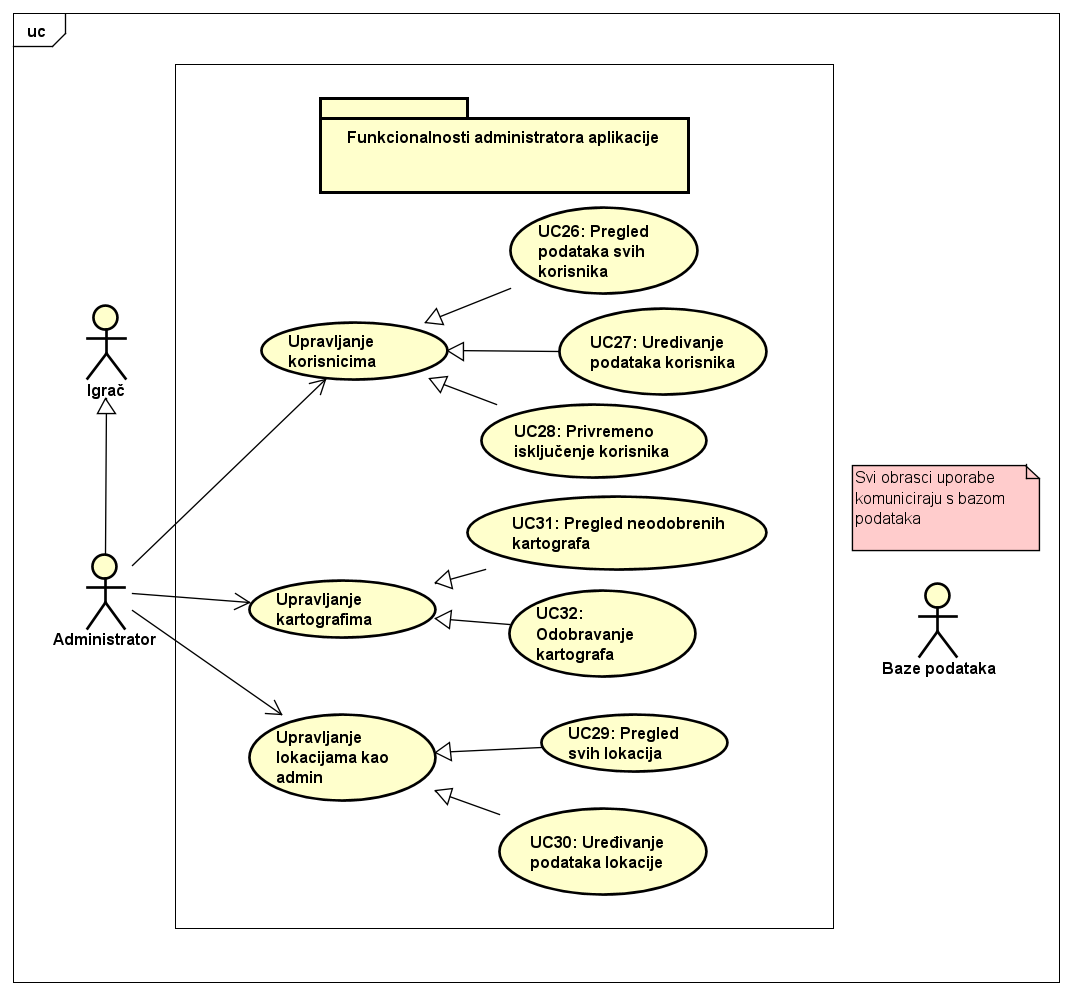
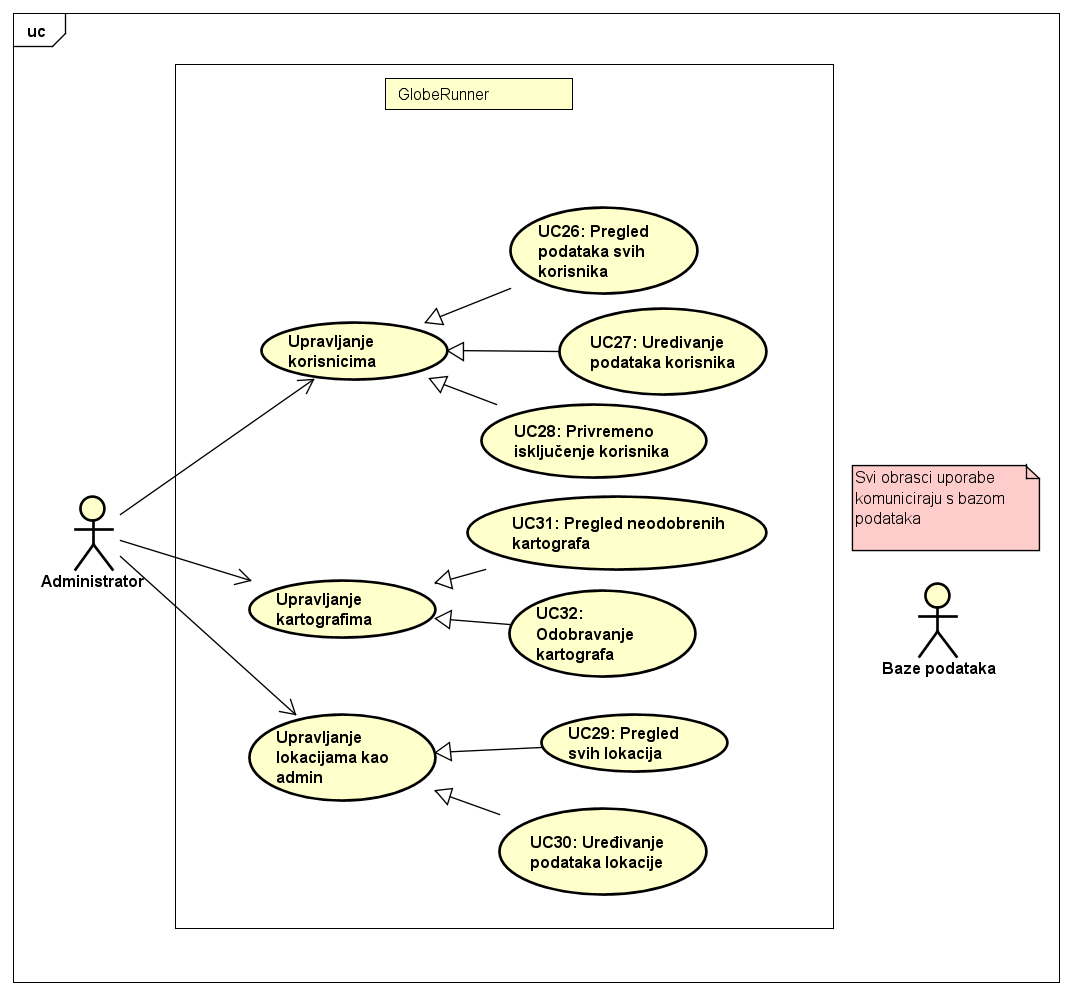
Izmjena use case dijagrama u dokumentaciji

diff --git a/Dokumentacija/Opis_projektnog_zadatka.tex b/Dokumentacija/Opis_projektnog_zadatka.tex
@@ -3,7 +3,13 @@
 		
 		Igra \textit{GlobeRunner} zamišljena je kao način da se ljude potakne na istraživanje lokalnih povijesnih i prirodnih znamenitosti. Pri posjetima znamenitostima igrači će se kretati na otvorenom, što je svakako bolja alternativa provođenju vremena u zatvorenom prostoru. Kroz same bitke, odnosno odabir kartica za njih, igrači će bolje upoznati bitne atribute lokalnih znamenitosti kraj kojih često prolaze bez razmišljanja jer će im upravo pažljiv odabir znamenitosti donositi pobjede u bitkama protiv drugih igrača.\par
 		
-		Platforme sa sličnom vizijom već postoje, jedna od njih je \textit{Geocaching}. Radi se o igri koja se zasniva na skrivenim spremnicima (eng. \textit{geocaches}) koji sadrže mali dnevnik u koji se posjetitelji zapisuju kada ga pronađu. Igrači u samoj aplikaciji biraju koji spremnik žele pronaći i zatim se upute u potragu. Prilikom pronalaska u spremniku mogu ostaviti i neku sitnicu, ili pak uzeti nešto iz njega, a nakon pronalaska svoje dojmove mogu objaviti na platformi. Razlika u odnosu na igru \textit{GlobeRunner} jest u tome da postoje fizički artefakti koji se skrivaju na proizvoljna mjesta i zatim pronalaze, dok je cilj ove igre sam posjet lokaciji koja treba biti na neki način značajna, povijesno ili pak geografski. Po pitanju nepostojanja fizičkih artefakata, \textit{GlobeRunner} je sličniji igri \textit{Pokémon GO} u kojoj se uz mjesta lokalnih znamenitosti vežu zamišljena bića iz animirane japanske franšize \textit{Pokémon}, zbog čega se pak razlikuje po značenju samih virtualnih artefakata. Sam tijek igre, kroz bitke u kojima se koriste kartice, podsjeća na kolekcionarsku igru \textit{Yu-Gi-Oh!}, no cijela premisa igre u potpunosti je drugačija.
+		Platforme sa sličnom vizijom već postoje, jedna od njih je \textit{Geocaching}, Slika \ref{fig:geocaching}. Radi se o igri koja se zasniva na skrivenim spremnicima (eng. \textit{geocaches}) koji sadrže mali dnevnik u koji se posjetitelji zapisuju kada ga pronađu. Igrači u samoj aplikaciji biraju koji spremnik žele pronaći i zatim se upute u potragu. Prilikom pronalaska u spremniku mogu ostaviti i neku sitnicu, ili pak uzeti nešto iz njega, a nakon pronalaska svoje dojmove mogu objaviti na platformi. Razlika u odnosu na igru \textit{GlobeRunner} jest u tome da postoje fizički artefakti koji se skrivaju na proizvoljna mjesta i zatim pronalaze, dok je cilj ove igre sam posjet lokaciji koja treba biti na neki način značajna, povijesno ili pak geografski. Po pitanju nepostojanja fizičkih artefakata, \textit{GlobeRunner} je sličniji igri \textit{Pokémon GO} u kojoj se uz mjesta lokalnih znamenitosti vežu zamišljena bića iz animirane japanske franšize \textit{Pokémon}, zbog čega se pak razlikuje po značenju samih virtualnih artefakata. Sam tijek igre, kroz bitke u kojima se koriste kartice, podsjeća na kolekcionarsku igru \textit{Yu-Gi-Oh!}, no cijela premisa igre u potpunosti je drugačija.
+		
+		\begin{figure}[H]
+			\includegraphics[width=\textwidth]{slike/Uvod/Geocaching.png} 
+			\caption{Web sjedište platforme \textit{Geocaching}}
+			\label{fig:geocaching}
+		\end{figure}
 		
 		Upravo bi iz navedenih razloga \textit{GlobeRunner} mogao privući igrače koji žele na zabavan način upoznati područja u kojima borave i kojima se kreću, kojeg god uzrasta bili, dok god paze na svoju sigurnost, posebno pri posjeti izazovnijim lokacijama poput planinskih vrhova. Ova aplikacija otvara svoja vrata i onim najznatiželjnijima koji žele poboljšati igru, odnosno predložiti nove lokacije i tako istaknuti njihov značaj.
 		
@@ -28,7 +34,7 @@
 		
 		Nakon ispunjavanja obrasca za registraciju, novi igrač treba potvrditi svoju e-mail adresu klikom na dostavljenu poveznicu. Tako potvrđen igrač može krenuti s upotrebom web aplikacije, dok registraciju kartografa naknadno mora odobriti administrator.
 		
-		\underbar{Igrač} nakon registracije započinje igru s predefiniranim početnim brojem bodova u ELO sustavu (npr. u šahu je 1500). Nakon prijave igrač vidi početnu stranicu koja prikazuje kartu na kojoj su označene lokacije s karticama koje još nije prikupio. Kada se igrač nađe u blizini neskupljenih kartica, ispod karte se pojavi popis kartica u neposrednoj blizini, njih onda može pokušati pokupiti pritiskom na gumb "Pokupi" koji će to dopustiti samo ako je igrač jako blizu kartici. Na početnoj (i svim ostalim) stranici igrač vidi i izbornik koji mu omogućuje navigaciju kroz web aplikaciju. Sadržaj izbornika je sljedeći:
+		\underbar{Igrač} nakon registracije započinje igru s predefiniranim početnim brojem bodova u ELO sustavu (npr. u šahu je 1500). Nakon prijave igrač vidi početnu stranicu koja prikazuje kartu na kojoj su označene lokacije s karticama koje još nije prikupio. Kada se igrač nađe u blizini neskupljenih kartica, ispod karte se pojavi popis kartica u neposrednoj blizini, njih onda može pokušati pokupiti pritiskom na gumb "Pokupi" koji će to dopustiti samo ako je igrač jako blizu kartici. Na početnoj stranici, kao i na ostalima, igrač vidi i izbornik koji mu omogućuje navigaciju kroz web aplikaciju. Sadržaj izbornika je sljedeći:
 		
 		\begin{packed_item}
 		    \item Vlastiti profil
@@ -36,7 +42,7 @@
 		    \item Igrači u blizini
 		\end{packed_item}
 		
-		Kroz izbornik igrač može pristupiti vlastitom profilu na kojem vidi statistiku svojih borbi i sve karte koje je skupio. U izborniku se također nalazi i poveznica na stranicu "Globalna statistika" koja prikazuje ljestvicu svih igrača sortiranu po ELO bodovnom sustavu, a uz to prikazuje i statistiku svih odigranih bitki i skupljenih kartica u igri. Do stranice koja prikazuje popis drugih igrača u blizini igrač također dolazi preko spomenutog izbornika. Na tom popisu igrač odabire koga će izazvati, a nakon što drugi igrač prihvati izazov, svaki odabire karte s kojima će ići u bitku. Iznad spomenutog popisa igraču se pojave zahtjevi za bitke kada ih drugi igrači izazovu, a on ih onda može prihvatiti ili odbiti. Nakon svake bitke igračima se ažurira njihov broj bodova shodno ELO sustavu. Svakog dana u ponoć (CET) izdvaja se prvih 10\% igrača s ljestvice i njima se dodjeljuje status naprednog igrača.
+		Kroz izbornik igrač može pristupiti vlastitom profilu na kojem vidi statistiku svojih borbi i sve karte koje je skupio. U izborniku se također nalazi i poveznica na stranicu "Globalna statistika" koja prikazuje ljestvicu svih igrača sortiranu po ELO bodovnom sustavu, a uz to prikazuje i statistiku svih odigranih bitki i skupljenih kartica u igri. Do stranice koja prikazuje popis drugih igrača u blizini igrač također dolazi preko spomenutog izbornika. Na tom popisu igrač odabire koga će izazvati, a nakon što drugi igrač prihvati izazov, svaki odabire karte s kojima će ići u bitku. Iznad spomenutog popisa igraču se pojave zahtjevi za bitke kada ih drugi igrači izazovu, a on ih onda može prihvatiti ili odbiti. Bitka se provodi usporedbom površina koje razapinju tri kartice koje pojedini igrač odabere, uz napomenu da se površina skalira prosjekom jačina tih triju kartica. Jačina kartice smanjuje se nakon svakog korištenja i to smanjenje vrijedi samo za korisnika koji ju koristi. Nakon svake bitke igračima se ažurira njihov broj bodova shodno ELO sustavu. Ako igrač pređe određeni prag bodova, dodjeljuje mu se status naprednog igrača.
 		
 		\underbar{Napredni igrač}, uz sve spomenute funkcionalnosti običnog igrača, u svom izborniku ima i opciju "Dodaj lokaciju" koja ga vodi na stranicu za predlaganje nove lokacije, odnosno kartice. Kako bi dodao neku lokaciju, napredni igrač mora biti u njezinoj blizini. U obrazac za dodavanje lokacije mora unijeti sve podatke koje kartica treba imati - naziv, opis i fotografiju. Nakon što predloži novu lokaciju, ona mu postaje vidljiva na njegovoj karti za dodavanje, ali uz naznaku da još nije odobrena.
 		
@@ -47,9 +53,9 @@
 		    \item Provjera na terenu
 		\end{packed_item}
 		
-		Na stranici vlastitog profila kartograf ima uvid u kartice koje je već odobrio i rute koje je već obišao kako bi na terenu potvrdio kartice. Stranica za provjeru na terenu daje kartografu priliku da iz liste kartica koje treba provjeriti na terenu odabere one koje će on provjeriti. Tako dopunjava svoju listu kartica za obići. Kada označi željeni broj lokacija za provjeru, kartograf klikom na gumb "generiraj rutu" zadaje sustavu problem trgovačkog putnika koji sustav rješava koristeći vanjski servis OSRM te kartografu prikazuje rutu koju treba obići da bi na terenu provjerio sve kartice koje je odabrao.
+		Na stranici vlastitog profila kartograf ima uvid u kartice koje je već odobrio. Stranica za provjeru na terenu daje kartografu priliku da iz liste kartica koje treba provjeriti na terenu odabere one koje će on provjeriti. Tako dopunjava svoju listu kartica za obići. Kada označi željeni broj lokacija za provjeru, kartograf klikom na gumb "generiraj rutu" zadaje sustavu problem trgovačkog putnika koji sustav rješava koristeći vanjski servis OSRM te kartografu prikazuje rutu koju treba obići da bi na terenu provjerio sve kartice koje je odabrao.
 		
-		\underbar{Administrator} može igrati igru kao i obični igrači, predlagati kartice poput naprednih, ali uz to ima na izborniku i stavku "Administracija" koja mu daje pristup sljedećim stranicama:
+		\underbar{Administrator} ima ulogu nadgledanja korisnika, lokacija i kartografa, a u tu svrhu u svom izborniku ima pristup sljedećim stranicama:
 		
 		\begin{packed_item}
 		    \item Svi korisnici
@@ -59,20 +65,13 @@
 		
 		Na stranici "Svi korisnici" administratoru se prikazuje popis svih korisnika. Za svakog korisnika nudi mu se opcija uređivanja osobnih podataka i opcija isključenja iz igre koje ga vode na pripadne stranice s tim funkcionalnostima. Na stranici "Sve kartice" administratoru je prikazana karta sa svim karticama u igri, a klikom na bilo koju od njih administrator dobiva opciju uređivanja kartice izmjenom bilo kojeg atributa same kartice. "Odobravanje kartografa" je stranica putem koje administrator dobiva uvid u registracije kartografa koje još nisu odobrene. Za svaku od njih nudi mu se opcija da ju odobri.
 		
+		Uz očekivane funkcionalnosti, identificirali smo i nadogradnje sustava koje bi poboljšale sigurnost, performanse i iskustvo korisnika, a čiji razvoj nije dio ovog projekta. Neke od njih su:
 		
-		\section{UPUTE - OBRISATI KASNIJE}
-		Na osnovi projektnog zadatka detaljno opisati korisničke zahtjeve. Što jasnije opisati cilj projektnog zadatka, razraditi problematiku zadatka, dodati nove aspekte problema i potencijalnih rješenja. Očekuje se minimalno 3, a poželjno 4-5 stranica opisa.	Teme koje treba dodatno razraditi u ovom poglavlju su:
 		\begin{packed_item}
-			\item \textit{potencijalna korist ovog projekta}
-			\item \textit{postojeća slična rješenja (istražiti i ukratko opisati razlike u odnosu na zadani zadatak). Dodajte slike koja predočavaju slična rješenja.}
-			\item \textit{skup korisnika koji bi mogao biti zainteresiran za ostvareno rješenje.}
-			\item \textit{mogućnost prilagodbe rješenja }
-			\item \textit{opseg projektnog zadatka}
-			\item \textit{moguće nadogradnje projektnog zadatka}
+		    \item Složeniji proces borbe
+		    \item Funkcija obnavljanja snage kartice ponovnim skupljanjem
+		    \item ...
 		\end{packed_item}
-		
-		\textit{Za pomoć pogledati reference navedene u poglavlju „Popis literature“, a po potrebi konzultirati sadržaj na internetu koji nudi dobre smjernice u tom pogledu.}
-		\eject
 		
 		\section{Primjeri u \LaTeX u}
 		
@@ -155,6 +154,7 @@
 		
 		%unos slike
 		\begin{figure}[H]
+		    \centering
 			\includegraphics[scale=0.4]{slike/aktivnost.PNG} %veličina slike u odnosu na originalnu datoteku i pozicija slike
 			\centering
 			\caption{Primjer slike s potpisom}

diff --git a/Dokumentacija/Specifikacija_programske_potpore.tex b/Dokumentacija/Specifikacija_programske_potpore.tex
@@ -113,11 +113,13 @@
 		            
 		        \end{packed_enum}
 		        
-	        \item \underbar{Baza podataka (inicijator) može:}
+	        \item \underbar{Baza podataka (sudionik):}
 		    
 		        \begin{packed_enum}
 		            
-		            \item 
+		            \item pohranjuje sve podatke o korisnicima i njihovim ovlastima
+		            \item pohranjuje sve podatke o lokacijama
+		            \item pohranjuje sve  podatke o provedenim borbama i izazovima
 		            
 		        \end{packed_enum}
 		        
@@ -254,18 +256,10 @@
 						\item  \textbf{Opis osnovnog tijeka:}
 						
 						\item[] \begin{packed_enum}
-	
-							\item 
-
+							\item Korisnik se nalazi na bilo kojoj stranici koja mu prikazuje korisničko ime drugog igrača
+							\item Korisnik klikom na korisničko ime igrača zahtijeva pregled njegovog profila
+							\item Korisniku se prikazuje javni profil odabranog korisnika
 						\end{packed_enum}
-						
-						\item  \textbf{Opis mogućih odstupanja:}
-						
-						\item[] \begin{packed_item}
-	
-							\item
-							
-						\end{packed_item}
 					\end{packed_item}
 					
 					\noindent \underbar{\textbf{UC6 - Uređivanje vlastitih podataka}}
@@ -334,7 +328,7 @@
 	
 							\item Korisnik odabire karticu na karti
 							\item Korisnik odabire opciju "Collect"
-							\item Kartica se nalazi na stranici "My Profile -> Inventory" 
+							\item Kartica se nalazi na stranici "My Profile - > Inventory" 
 
 						\end{packed_enum}
 						
@@ -418,7 +412,7 @@
 						\item[] \begin{packed_enum}
 	
 							\item Igrač dobiva obavijest o pristiglom izazovu
-							\item Igrač označava "Accept" ako prihvaća izazov ili "Deny" ako odbija
+							\item Igrač označava "\textit{Accept}" ako prihvaća izazov ili "\textit{Deny}" ako odbija
 
 						\end{packed_enum}
 						
@@ -430,15 +424,14 @@
 						\item \textbf{Glavni sudionik: }Igrač
 						\item  \textbf{Cilj:} Izabrati karte i boriti se s drugim igračem
 						\item  \textbf{Sudionici:} Baza podataka
-						\item  \textbf{Preduvjet:} Igrač je prijavljen
+						\item  \textbf{Preduvjet:} Igrač je prijavljen i prihvatio je izazov ili je njegov izazov prihvaćen
 						\item  \textbf{Opis osnovnog tijeka:}
 						
 						\item[] \begin{packed_enum}
 	
-							\item Korisnik odabire opciju za registraciju
-							\item Korisnik unosi potrebne korisničke podatke
-							\item Korisnik dobiva e-mail kojim potvrđuje svoj račun
-
+							\item Korisnik odabire tri kartice među onima koje je prikupio
+							\item Korisnik klikom na gumb "\textit{Fight!}" ulazi u borbu
+							\item Korisniku se prikazuje ishod borbe i ažurirani broj njegovih bodova
 						\end{packed_enum}
 						
 					\end{packed_item}
@@ -922,8 +915,8 @@ UC						\item  \textbf{Sudionici:} Baza podataka, OSRM servis
         		\end{figure}
 	
 		\section{Ostali zahtjevi}
-		
-			\item Sustav treba omogućiti rad više korisnika u stvarnom vremenu
+		\begin{packed_item}
+		    \item Sustav treba omogućiti rad više korisnika u stvarnom vremenu
 			\item Korisničko sučelje i sustav moraju podržavati hrvatsku abecedu (dijakritičke znakove) pri unosu i prikazu tekstualnog sadržaja
 			\item Izvršavanje dijela programa u kojem se pristupa bazi podataka ne smije trajati duže od nekoliko sekundi
 			\item Sustav treba biti implementiran kao web aplikacija koristeći objektno-orijentirane jezike
@@ -931,5 +924,8 @@ UC						\item  \textbf{Sudionici:} Baza podataka, OSRM servis
 			\item Sustav treba biti jednostavan za korištenje, korisnici se moraju znati koristiti sučeljem bez opširnih uputa
 			\item Nadogradnja sustava ne smije narušavati postojeće funkcionalnosti sustava
 			\item Sustav kao valutu koristi EURO
-			\item Veza s bazom podataka mora biti kvalitetno zaštićena brza i otporna na vanjske greške
+			\item Veza s bazom podataka mora biti kvalitetno zaštićena, brza i otporna na vanjske greške
 			\item Pristup sustavu mora biti omogućen iz javne mreže pomoću HTTPS
+			\item Rukovanje osobnim podatcima treba biti usklađeno s važećim direktivama
+			
+		\end{packed_item}

diff --git a/Dokumentacija/Dnevnik_promjena_dokumentacije.tex b/Dokumentacija/Dnevnik_promjena_dokumentacije.tex
@@ -18,7 +18,7 @@
 			0.4	& Raspisani obrasci uporabe do kraja & V. Pezo & 2.11.2022. 	\\[3pt] \hline 
 			0.5	& Dodani dijagrami obrazaca upotrebe. & L. Raguž & 3.11.2022. 	\\[3pt] \hline 
 			0.6	& Dodani sekvencijski dijagrami & E. Kumer & 3.11.2022. 	\\[3pt] \hline
-			0.7 & ___ & * & 26.08.2013. \\[3pt] \hline 
+			0.7 & Ispravci 2. i 3. poglavlja, dodavanje fotografije. & V. Pezo & 16.11.2022. \\[3pt] \hline 
 			0.8 & Povijest rada i trenutni status implementacije,\newline Zaključci i plan daljnjeg rada & * & 28.08.2013. \\[3pt] \hline 
 			0.9 & Opisi obrazaca uporabe & * & 07.09.2013. \\[3pt] \hline 
 			0.10 & Preveden uvod & * & 08.09.2013. \\[3pt] \hline 
